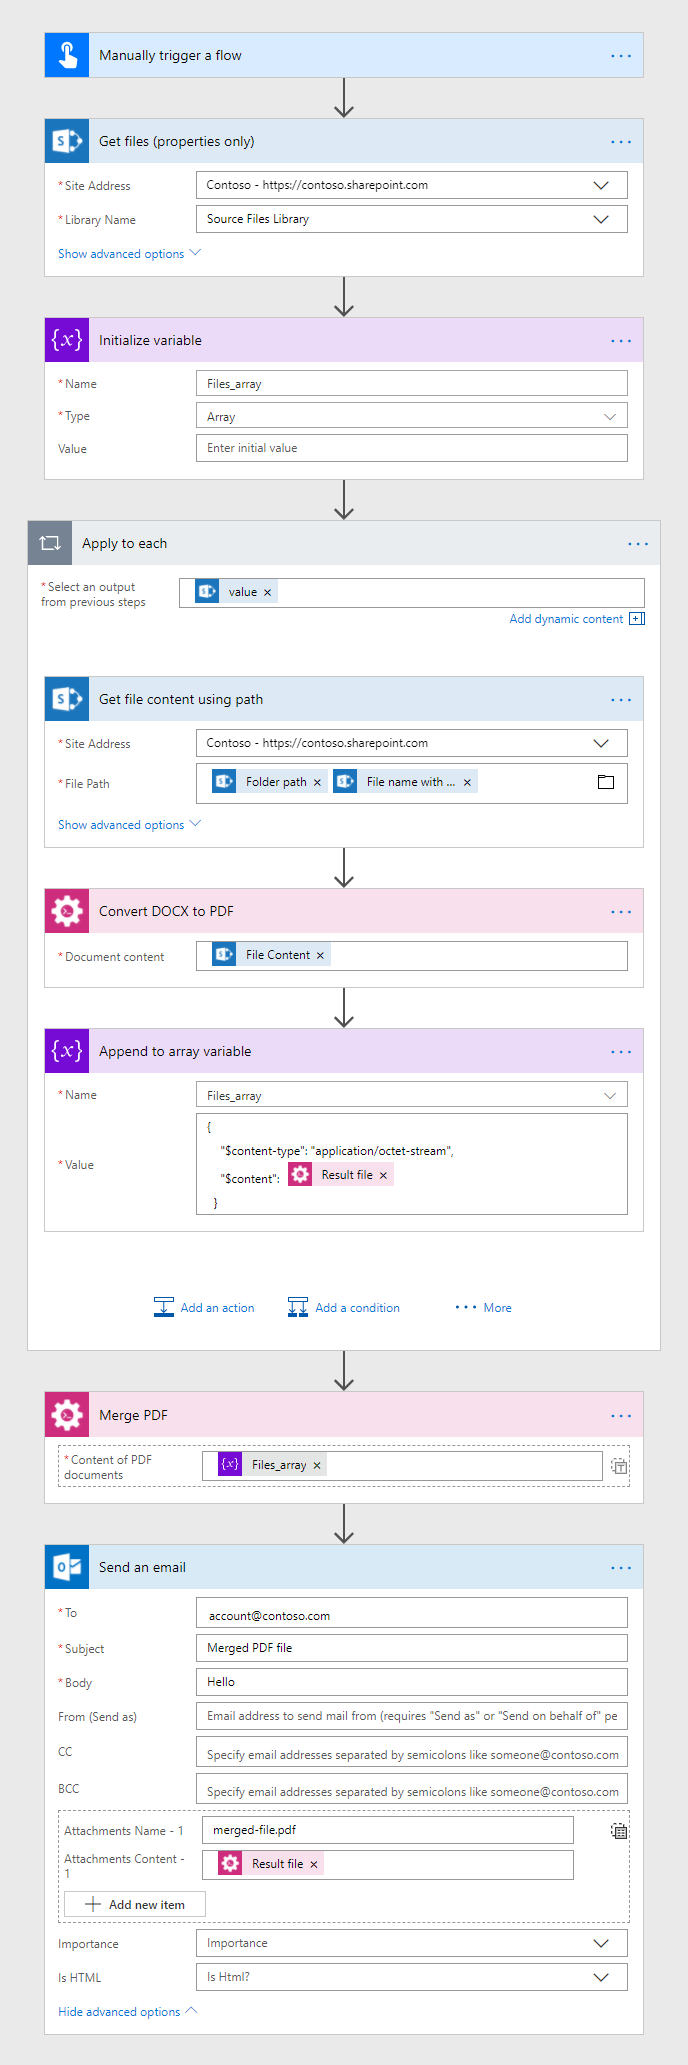
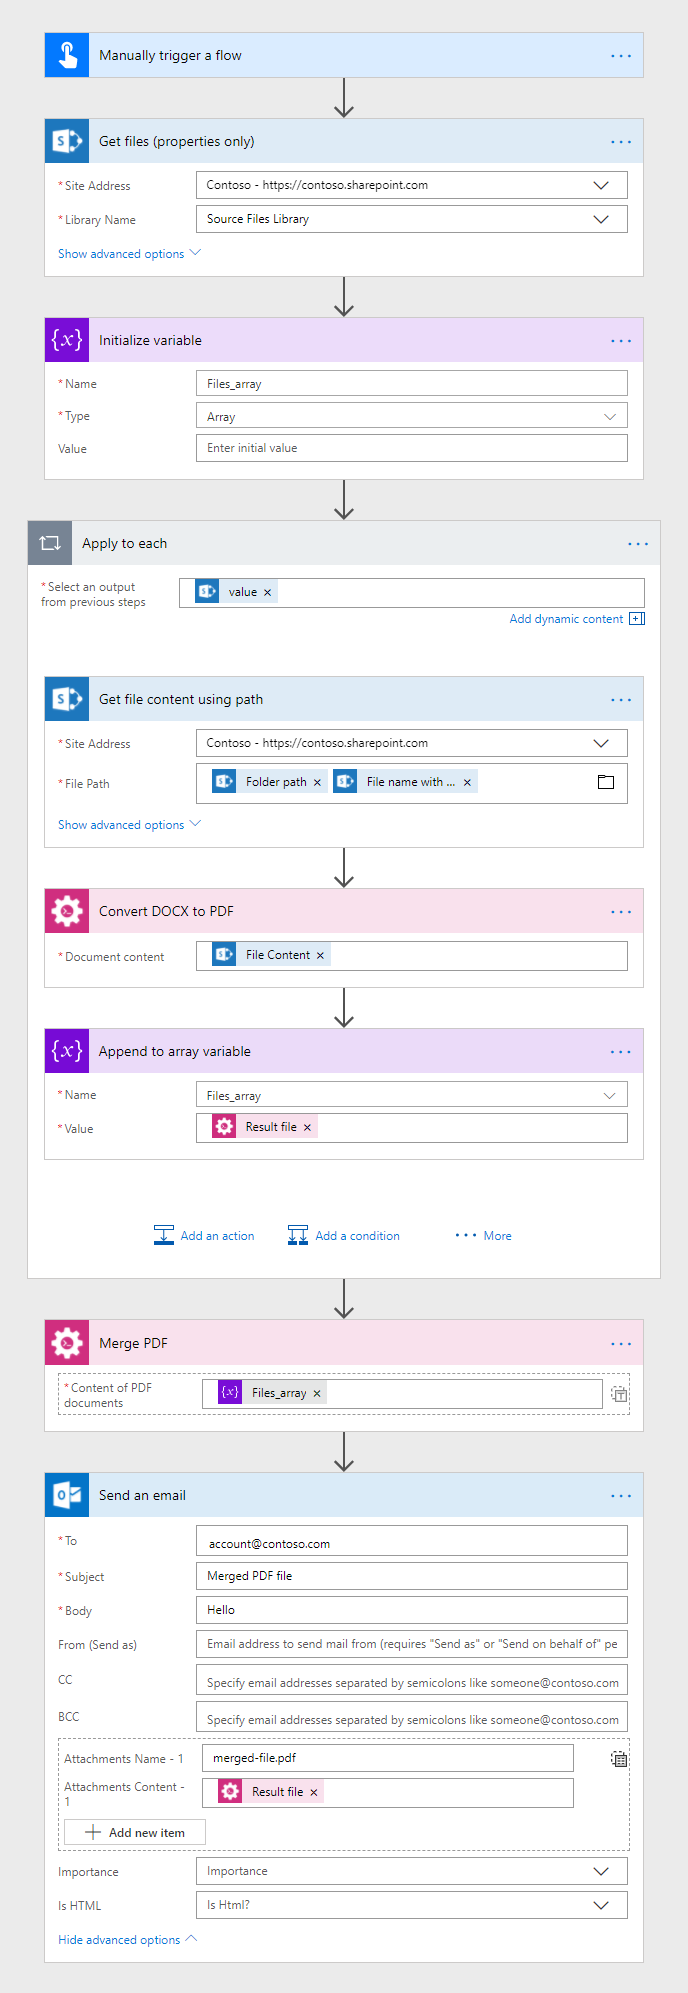
Changes in the merge PDF article

Changed region(s): [[0.0305, 0.0, 0.9462, 0.5911], [0.061, 0.6222, 0.9462, 0.9955], [0.1526, 0.0, 0.3358, 0.0311]]

diff --git a/source/flow/how-tos/documents/merge-pdf-files.rst b/source/flow/how-tos/documents/merge-pdf-files.rst
@@ -81,7 +81,7 @@ You can find more detailed information about *Convert DOCX to PDF* action `here 
 Append to array variable
 ~~~~~~~~~~~~~~~~~
 
-Now, add *Variables  -  Append to array variable* action, enter an element of the array into the **Value field** as shown in the screenshot below. **Result file** here is the output from the previous  operation:
+Now, add *Variables  -  Append to array variable* action. Into the **Value** field, put **Result file** from the output of the previous operation:
 
 .. image:: ../../../_static/img/flow/how-tos/append-to-array.png
    :alt: Append to array variable
